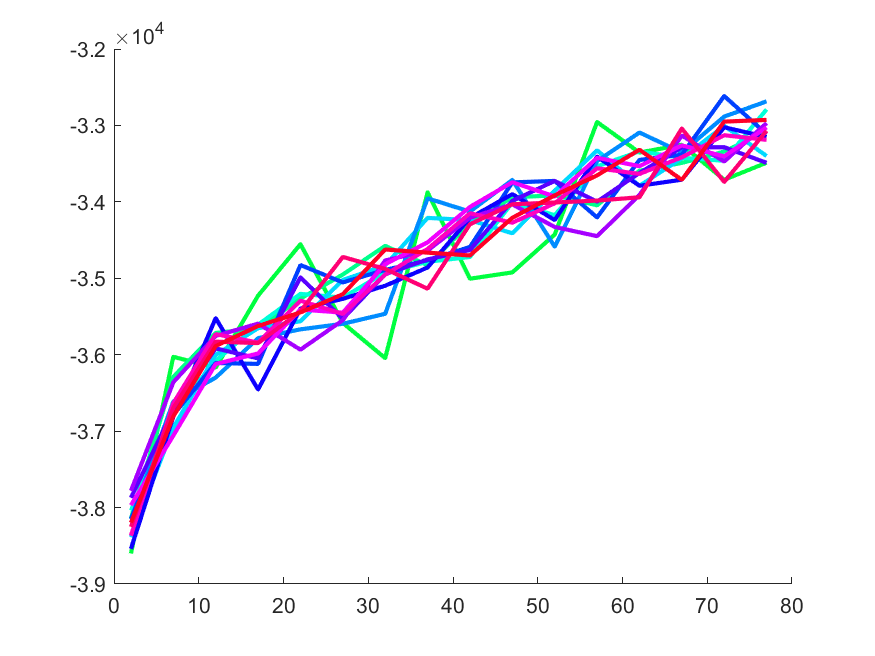
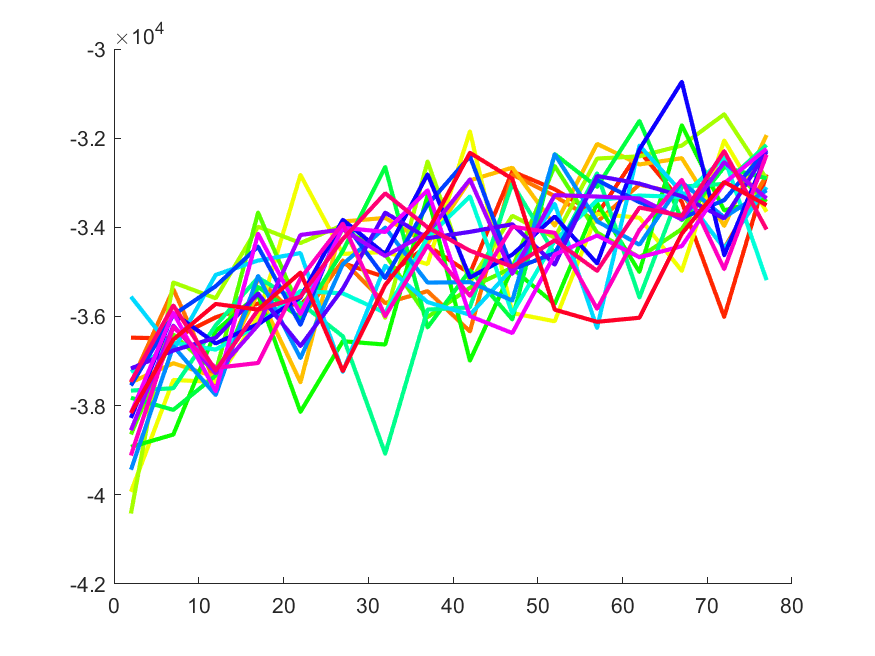
plotting emissions and dynamics ll

diff --git a/code/python_switching_models/ll_csv_to_plot.m b/code/python_switching_models/ll_csv_to_plot.m
@@ -122,29 +122,33 @@ end
 colors = hsv(size(bits_per_spike,2));
 figure; hold on;
 for iState = 2:size(bits_per_spike,2)
-    x = find(bits_per_spike(:,iState)>0);
-    y = -bits_per_spike(bits_per_spike(:,iState)>0,iState);
+    x = find(bits_per_spike(:,iState)~=0 & ~isnan(bits_per_spike(:,iState)));
+    y = bits_per_spike(bits_per_spike(:,iState)~=0,iState);
+    y = y(~isnan(y));
     plot3(x,repmat(iState,length(y)),y,'LineWidth',2,'Color',colors(iState,:));
 end
 view(-42,24)
 colors = hsv(size(bits_per_spike,1));
 for iDim = 2:size(bits_per_spike,1)
-    x = find(bits_per_spike(iDim,:)>0);
-    y = -bits_per_spike(iDim,bits_per_spike(iDim,:)>0);
+    x = find(bits_per_spike(iDim,:)~=0 & ~isnan(bits_per_spike(iDim,:)));
+    y = bits_per_spike(iDim,bits_per_spike(iDim,:)~=0);
+    y = y(~isnan(y));
     plot3(repmat(iDim,length(y)),x,y,'LineWidth',2,'Color','#808080');
 end
 hold off
-saveas(gcf,[meta.figure_folder_filepath,meta.subject,meta.task,'CT',num2str(meta.crosstrain),'_param_search_surf.png']);
+% saveas(gcf,[meta.figure_folder_filepath,meta.subject,meta.task,'CT',num2str(meta.crosstrain),'_param_search_surf.png']);
 
 
 %%   2D
 colors = hsv(size(bits_per_spike,2));
 figure; hold on;
 for iState = 2:size(bits_per_spike,2)
-    x = find(bits_per_spike(:,iState)>0);
-    y = -bits_per_spike(bits_per_spike(:,iState)>0,iState);
+    x = find(bits_per_spike(:,iState)~=0 & ~isnan(bits_per_spike(:,iState)));
+    y = bits_per_spike(bits_per_spike(:,iState)~=0,iState);
+    y = y(~isnan(y));
     plot(x,y,'LineWidth',2,'Color',colors(iState,:))
 end
 hold off
-saveas(gcf,[meta.figure_folder_filepath,meta.subject,meta.task,'CT',num2str(meta.crosstrain),'_param_search_2D.png']);
+% saveas(gcf,[meta.figure_folder_filepath,meta.subject,meta.task,'CT',num2str(meta.crosstrain),'_param_search_2D.png']);
+%%
 close all

diff --git a/code/python_switching_models/matlab_reimport.m b/code/python_switching_models/matlab_reimport.m
@@ -196,7 +196,7 @@ if contains(filepath,'RS') || contains(filepath,'RJ') || contains(filepath, 'Bx'
     %% Bringing in Continuous State Values
     if use_rslds == 1
         continuous_state_files = files_in_filepath(cellfun(@(x) contains(x,'continuous_states_trial_'),files_in_filepath));
-        if length(continuous_state_files) > 0
+        if ~isempty(continuous_state_files)
             for iTrial = 1:size(data,2)
                 file = readmatrix(strcat(filepath,'continuous_states_trial_',num2str(iTrial),'.csv'));
                 data(iTrial).continuous_states = file;
